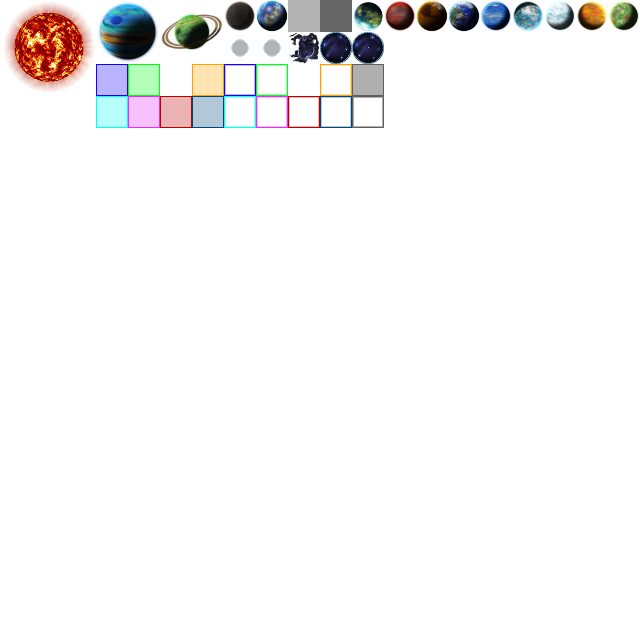
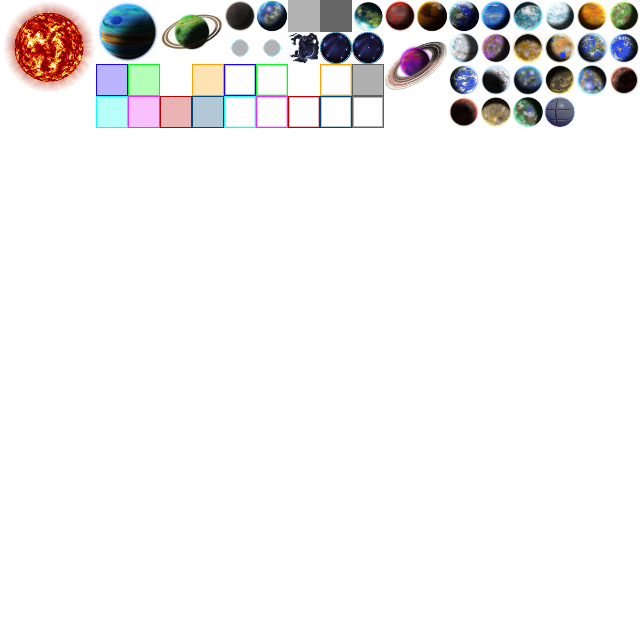
#251 Adds new planet images.

Changed region(s): [[0.5938, 0.0312, 1.0, 0.2188]]

diff --git a/src/main/java/org/openRealmOfStars/gui/utilies/GuiStatics.java b/src/main/java/org/openRealmOfStars/gui/utilies/GuiStatics.java
@@ -630,6 +630,31 @@ public final class GuiStatics {
    */
   public static final BufferedImage BIG_PLANET_WATERWORLD4 = IOUtilities
       .loadImage(Tiles.class.getResource("/resources/images/waterworld4.png"));
+  /**
+   * Big planet screen water world 5
+   */
+  public static final BufferedImage BIG_PLANET_WATERWORLD5 = IOUtilities
+      .loadImage(Tiles.class.getResource("/resources/images/waterworld5.png"));
+  /**
+   * Big planet screen water world 6
+   */
+  public static final BufferedImage BIG_PLANET_WATERWORLD6 = IOUtilities
+      .loadImage(Tiles.class.getResource("/resources/images/waterworld6.png"));
+  /**
+   * Big planet screen water world 7
+   */
+  public static final BufferedImage BIG_PLANET_WATERWORLD7 = IOUtilities
+      .loadImage(Tiles.class.getResource("/resources/images/waterworld7.png"));
+  /**
+   * Big planet screen water world 8
+   */
+  public static final BufferedImage BIG_PLANET_WATERWORLD8 = IOUtilities
+      .loadImage(Tiles.class.getResource("/resources/images/waterworld8.png"));
+  /**
+   * Big planet screen water world 9
+   */
+  public static final BufferedImage BIG_PLANET_WATERWORLD9 = IOUtilities
+      .loadImage(Tiles.class.getResource("/resources/images/waterworld9.png"));
 
   /**
    * Big planet screen ice world 1
@@ -642,12 +667,32 @@ public final class GuiStatics {
    */
   public static final BufferedImage BIG_PLANET_ICEWORLD2 = IOUtilities
       .loadImage(Tiles.class.getResource("/resources/images/iceworld2.png"));
+  /**
+   * Big planet screen ice world 3
+   */
+  public static final BufferedImage BIG_PLANET_ICEWORLD3 = IOUtilities
+      .loadImage(Tiles.class.getResource("/resources/images/iceworld3.png"));
+  /**
+   * Big planet screen ice world 4
+   */
+  public static final BufferedImage BIG_PLANET_ICEWORLD4 = IOUtilities
+      .loadImage(Tiles.class.getResource("/resources/images/iceworld4.png"));
 
   /**
    * Big planet screen carbon world 1
    */
   public static final BufferedImage BIG_PLANET_CARBONWORLD1 = IOUtilities
       .loadImage(Tiles.class.getResource("/resources/images/carbonworld1.png"));
+  /**
+   * Big planet screen carbon world 2
+   */
+  public static final BufferedImage BIG_PLANET_CARBONWORLD2 = IOUtilities
+      .loadImage(Tiles.class.getResource("/resources/images/carbonworld2.png"));
+  /**
+   * Big planet screen carbon world 3
+   */
+  public static final BufferedImage BIG_PLANET_CARBONWORLD3 = IOUtilities
+      .loadImage(Tiles.class.getResource("/resources/images/carbonworld3.png"));
 
   /**
    * Big planet screen iron planet 1
@@ -666,6 +711,21 @@ public final class GuiStatics {
    */
   public static final BufferedImage BIG_PLANET_IRONPLANET3 = IOUtilities
       .loadImage(Tiles.class.getResource("/resources/images/ironplanet3.png"));
+  /**
+   * Big planet screen iron planet 4
+   */
+  public static final BufferedImage BIG_PLANET_IRONPLANET4 = IOUtilities
+      .loadImage(Tiles.class.getResource("/resources/images/ironplanet4.png"));
+  /**
+   * Big planet screen iron planet 5
+   */
+  public static final BufferedImage BIG_PLANET_IRONPLANET5 = IOUtilities
+      .loadImage(Tiles.class.getResource("/resources/images/ironplanet5.png"));
+  /**
+   * Big planet screen iron planet 6
+   */
+  public static final BufferedImage BIG_PLANET_IRONPLANET6 = IOUtilities
+      .loadImage(Tiles.class.getResource("/resources/images/ironplanet6.png"));
 
   /**
    * Big planet gas world
@@ -678,6 +738,35 @@ public final class GuiStatics {
    */
   public static final BufferedImage BIG_GASWORLD2 = IOUtilities
       .loadImage(Tiles.class.getResource("/resources/images/gasworld2.png"));
+  /**
+   * Big planet screen gas world
+   */
+  public static final BufferedImage BIG_GASWORLD3 = IOUtilities
+      .loadImage(Tiles.class.getResource("/resources/images/gasworld3.png"));
+  /**
+   * Big planet screen desert planet 1
+   */
+  public static final BufferedImage BIG_PLANET_DESERTPLANET1 = IOUtilities
+      .loadImage(Tiles.class.getResource(
+          "/resources/images/desertplanet1.png"));
+  /**
+   * Big planet screen desert planet 2
+   */
+  public static final BufferedImage BIG_PLANET_DESERTPLANET2 = IOUtilities
+      .loadImage(Tiles.class.getResource(
+          "/resources/images/desertplanet2.png"));
+  /**
+   * Big planet screen desert planet 3
+   */
+  public static final BufferedImage BIG_PLANET_DESERTPLANET3 = IOUtilities
+      .loadImage(Tiles.class.getResource(
+          "/resources/images/desertplanet3.png"));
+  /**
+   * Big planet screen artificial planet 1
+   */
+  public static final BufferedImage BIG_PLANET_ARTIFICIALPLANET1 = IOUtilities
+      .loadImage(Tiles.class.getResource(
+          "/resources/images/artificialworld1.png"));
 
   /**
    * Star field image for parallax scrolling

diff --git a/src/main/java/org/openRealmOfStars/mapTiles/TileNames.java b/src/main/java/org/openRealmOfStars/mapTiles/TileNames.java
@@ -112,6 +112,23 @@ public final class TileNames {
   public static final String GAS_GIANT_2_SW = "GAS_GIANT_2_SW";
 
   /**
+   * Gas Giant 3 North West
+   */
+  public static final String GAS_GIANT_3_NW = "GAS_GIANT_3_NW";
+  /**
+   * Gas Giant 3 North East
+   */
+  public static final String GAS_GIANT_3_NE = "GAS_GIANT_3_NE";
+  /**
+   * Gas Giant 3 South East
+   */
+  public static final String GAS_GIANT_3_SE = "GAS_GIANT_3_SE";
+  /**
+   * Gas Giant 3 South West
+   */
+  public static final String GAS_GIANT_3_SW = "GAS_GIANT_3_SW";
+
+  /**
    * Planet 1 Rock world 1
    */
   public static final String ROCK1 = "ROCK1";
@@ -160,7 +177,34 @@ public final class TileNames {
    * Planet 11 carbon world 1
    */
   public static final String CARBONWORLD1 = "CARBONWORLD1";
-
+  /**
+   * Planet 12 Ice world 3
+   */
+  public static final String ICEWORLD3 = "ICEWORLD3";
+  /**
+   * Planet 13 Iron world 4
+   */
+  public static final String IRONPLANET4 = "IRONPLANET4";
+  /**
+   * Planet 14 carbon world 2
+   */
+  public static final String CARBONWORLD2 = "CARBONWORLD2";
+  /**
+   * Planet 15 desert world 1
+   */
+  public static final String DESERTWORLD1 = "DESERTWORLD1";
+  /**
+   * Planet 16 water world 5
+   */
+  public static final String WATERWORLD5 = "WATERWORLD5";
+  /**
+   * Planet 17 water world 6
+   */
+  public static final String WATERWORLD6 = "WATERWORLD6";
+  /**
+   * Planet 18 water world 7
+   */
+  public static final String WATERWORLD7 = "WATERWORLD7";
   /**
    * Deep space anchor 1, place where starbase can be deploy
    */

diff --git a/src/main/java/org/openRealmOfStars/game/States/CreditsView.java b/src/main/java/org/openRealmOfStars/game/States/CreditsView.java
@@ -69,7 +69,8 @@ public class CreditsView extends BlackPanel {
       + "See http://creativecommons.org/licenses/by-sa/3.0/\n\n"
       + "# Graphics by\n\n"
       + "Moons and planet made by Unnamed (Viktor.Hahn@web.de)\n"
-      + "(http://opengameart.org/content/16-planet-sprites)\n\n"
+      + "(http://opengameart.org/content/16-planet-sprites)\n"
+      + "(https://opengameart.org/content/17-planet-sprites)\n\n"
       + "SunRed by Priest865 "
       + "(http://opengameart.org/content/space-assets)\n\n"
       + "141 Military Icons Set by AngryMeteor.com - "
@@ -129,6 +130,7 @@ public class CreditsView extends BlackPanel {
       + "Space ship trader vessels by gfx0\n\n"
       + "Space ship bridge by Jani Mäkinen aka gfx0\n\n"
       + "Centaur Space Ship Bridge by Tuomo Untinen\n\n"
+      + "Artificial Planet by Tuomo Untinen\n\n"
       + "Fonts are under SIL Open Font License, Version 1.1.\n"
       + "# Fonts by\n\n"
       + "Cubellan font by Jyrki Ihalainen (yardan74@gmail.com)\n\n"

diff --git a/src/main/java/org/openRealmOfStars/utilities/IOUtilities.java b/src/main/java/org/openRealmOfStars/utilities/IOUtilities.java
@@ -51,6 +51,10 @@ public final class IOUtilities {
    */
   public static BufferedImage loadImage(final URL urlToImage) {
     try {
+      if (urlToImage == null) {
+        System.err.print("Null url, image cannot be loaded!");
+        return null;
+      }
       return ImageIO.read(urlToImage);
     } catch (IOException e) {
       System.err.print(urlToImage.toString() + " not found!");
